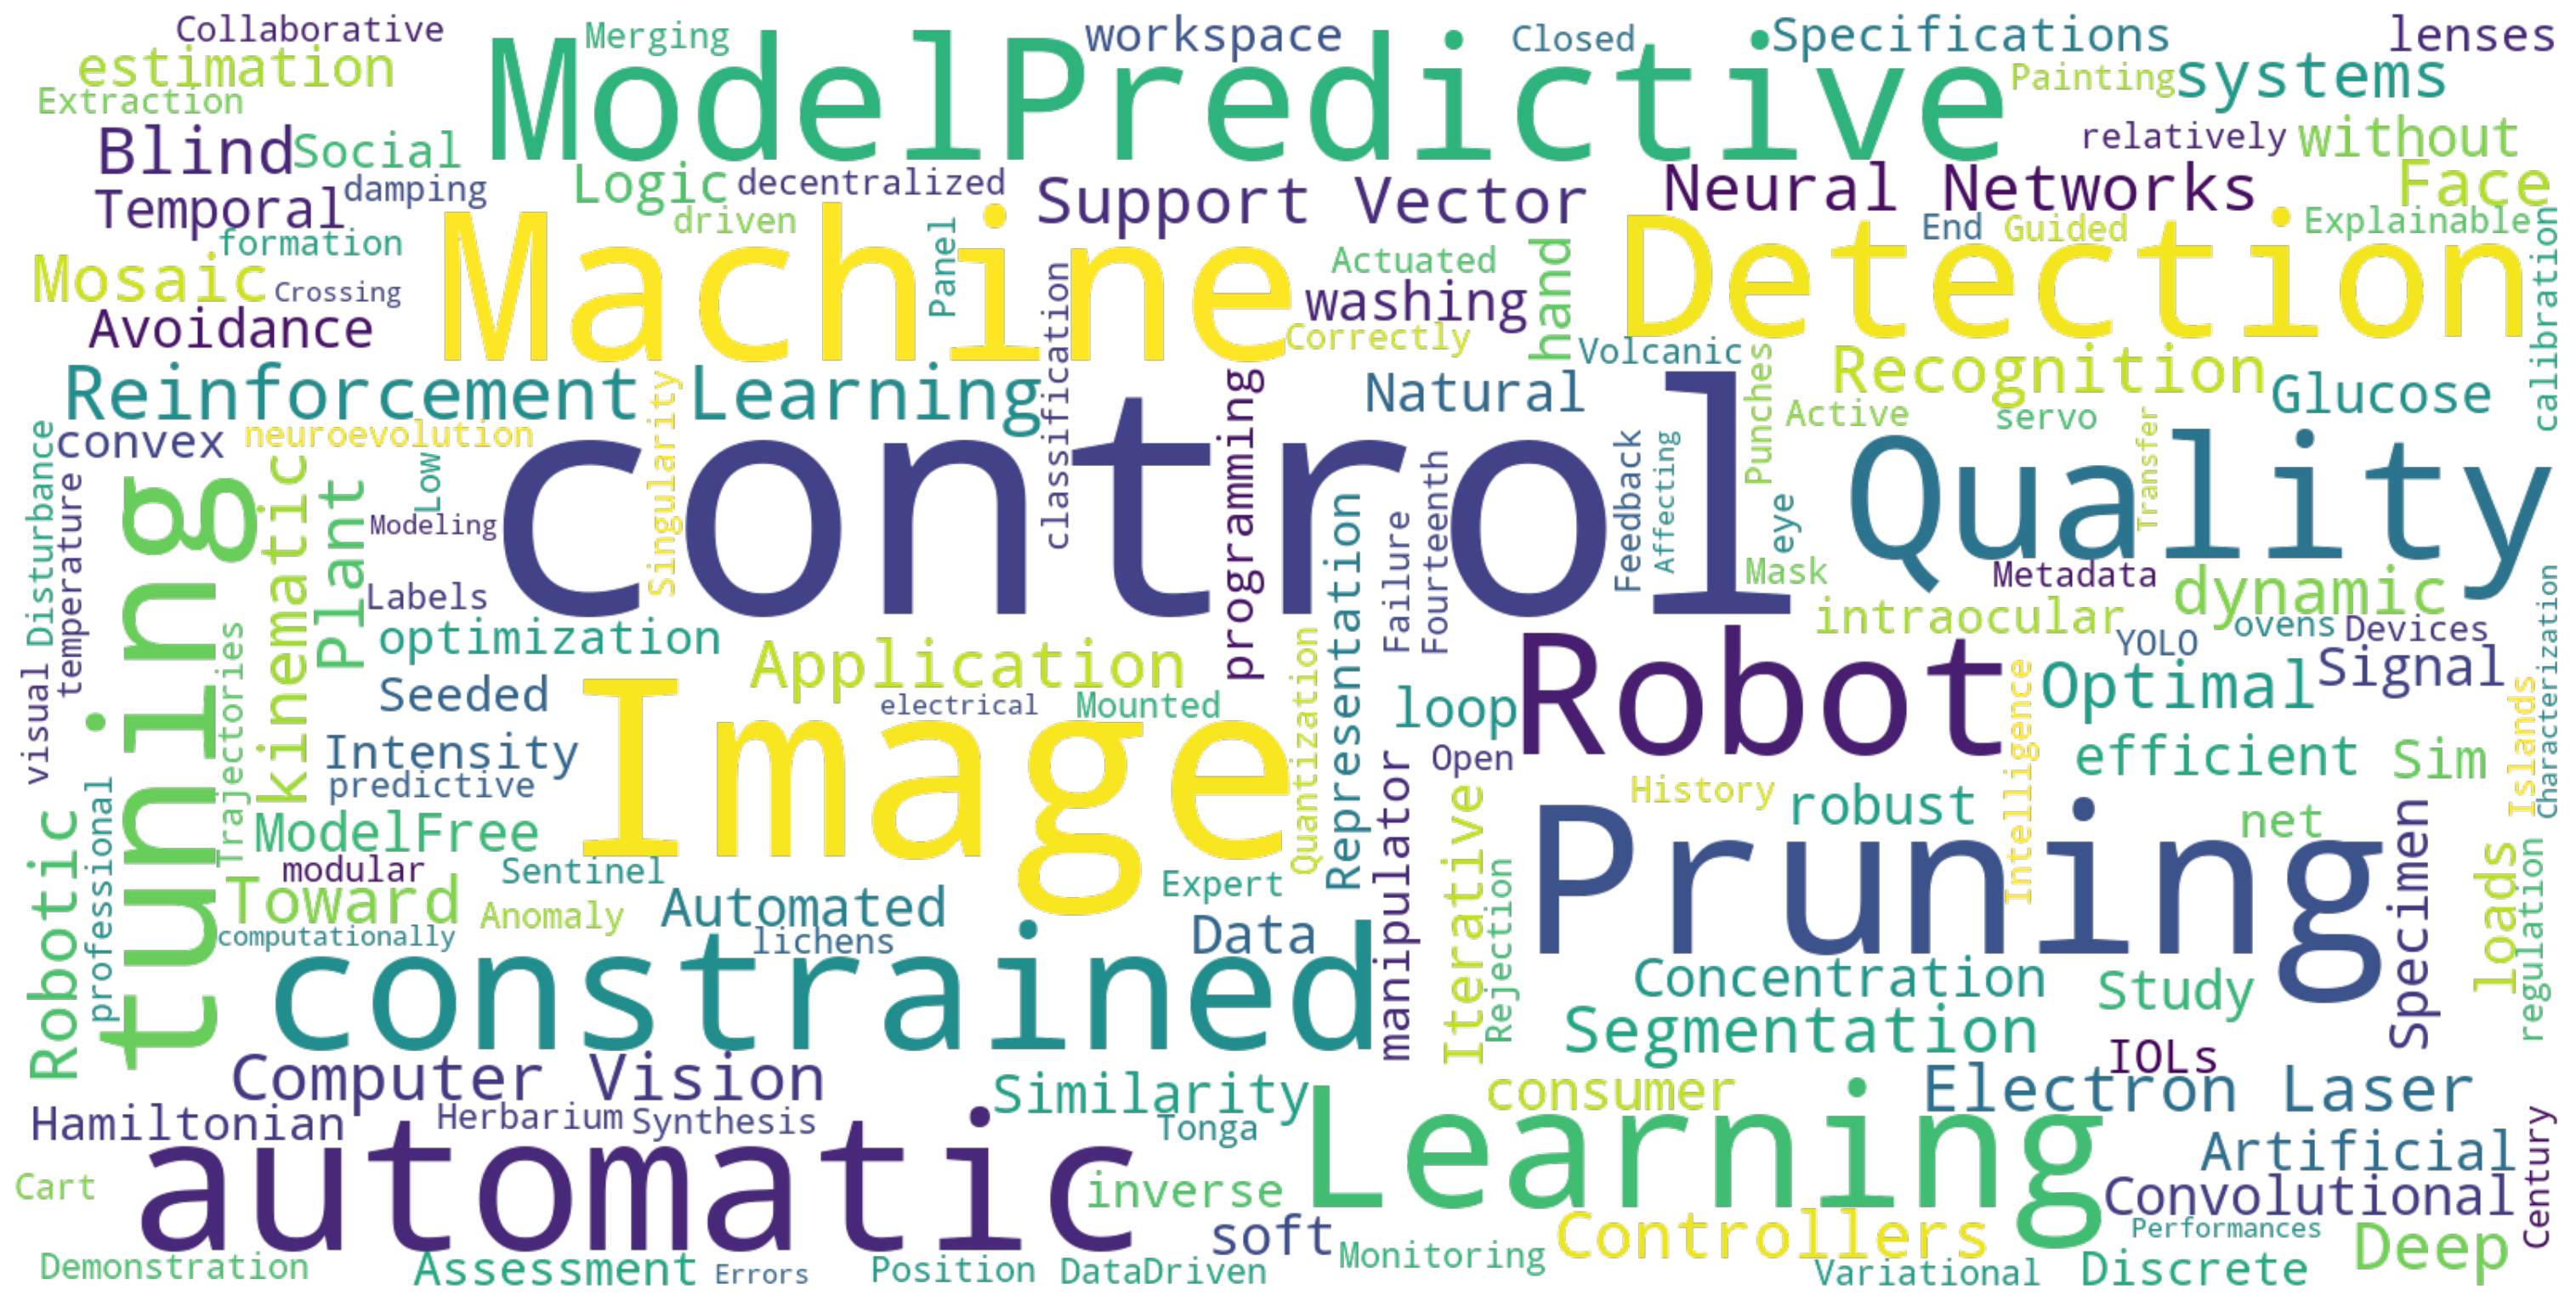
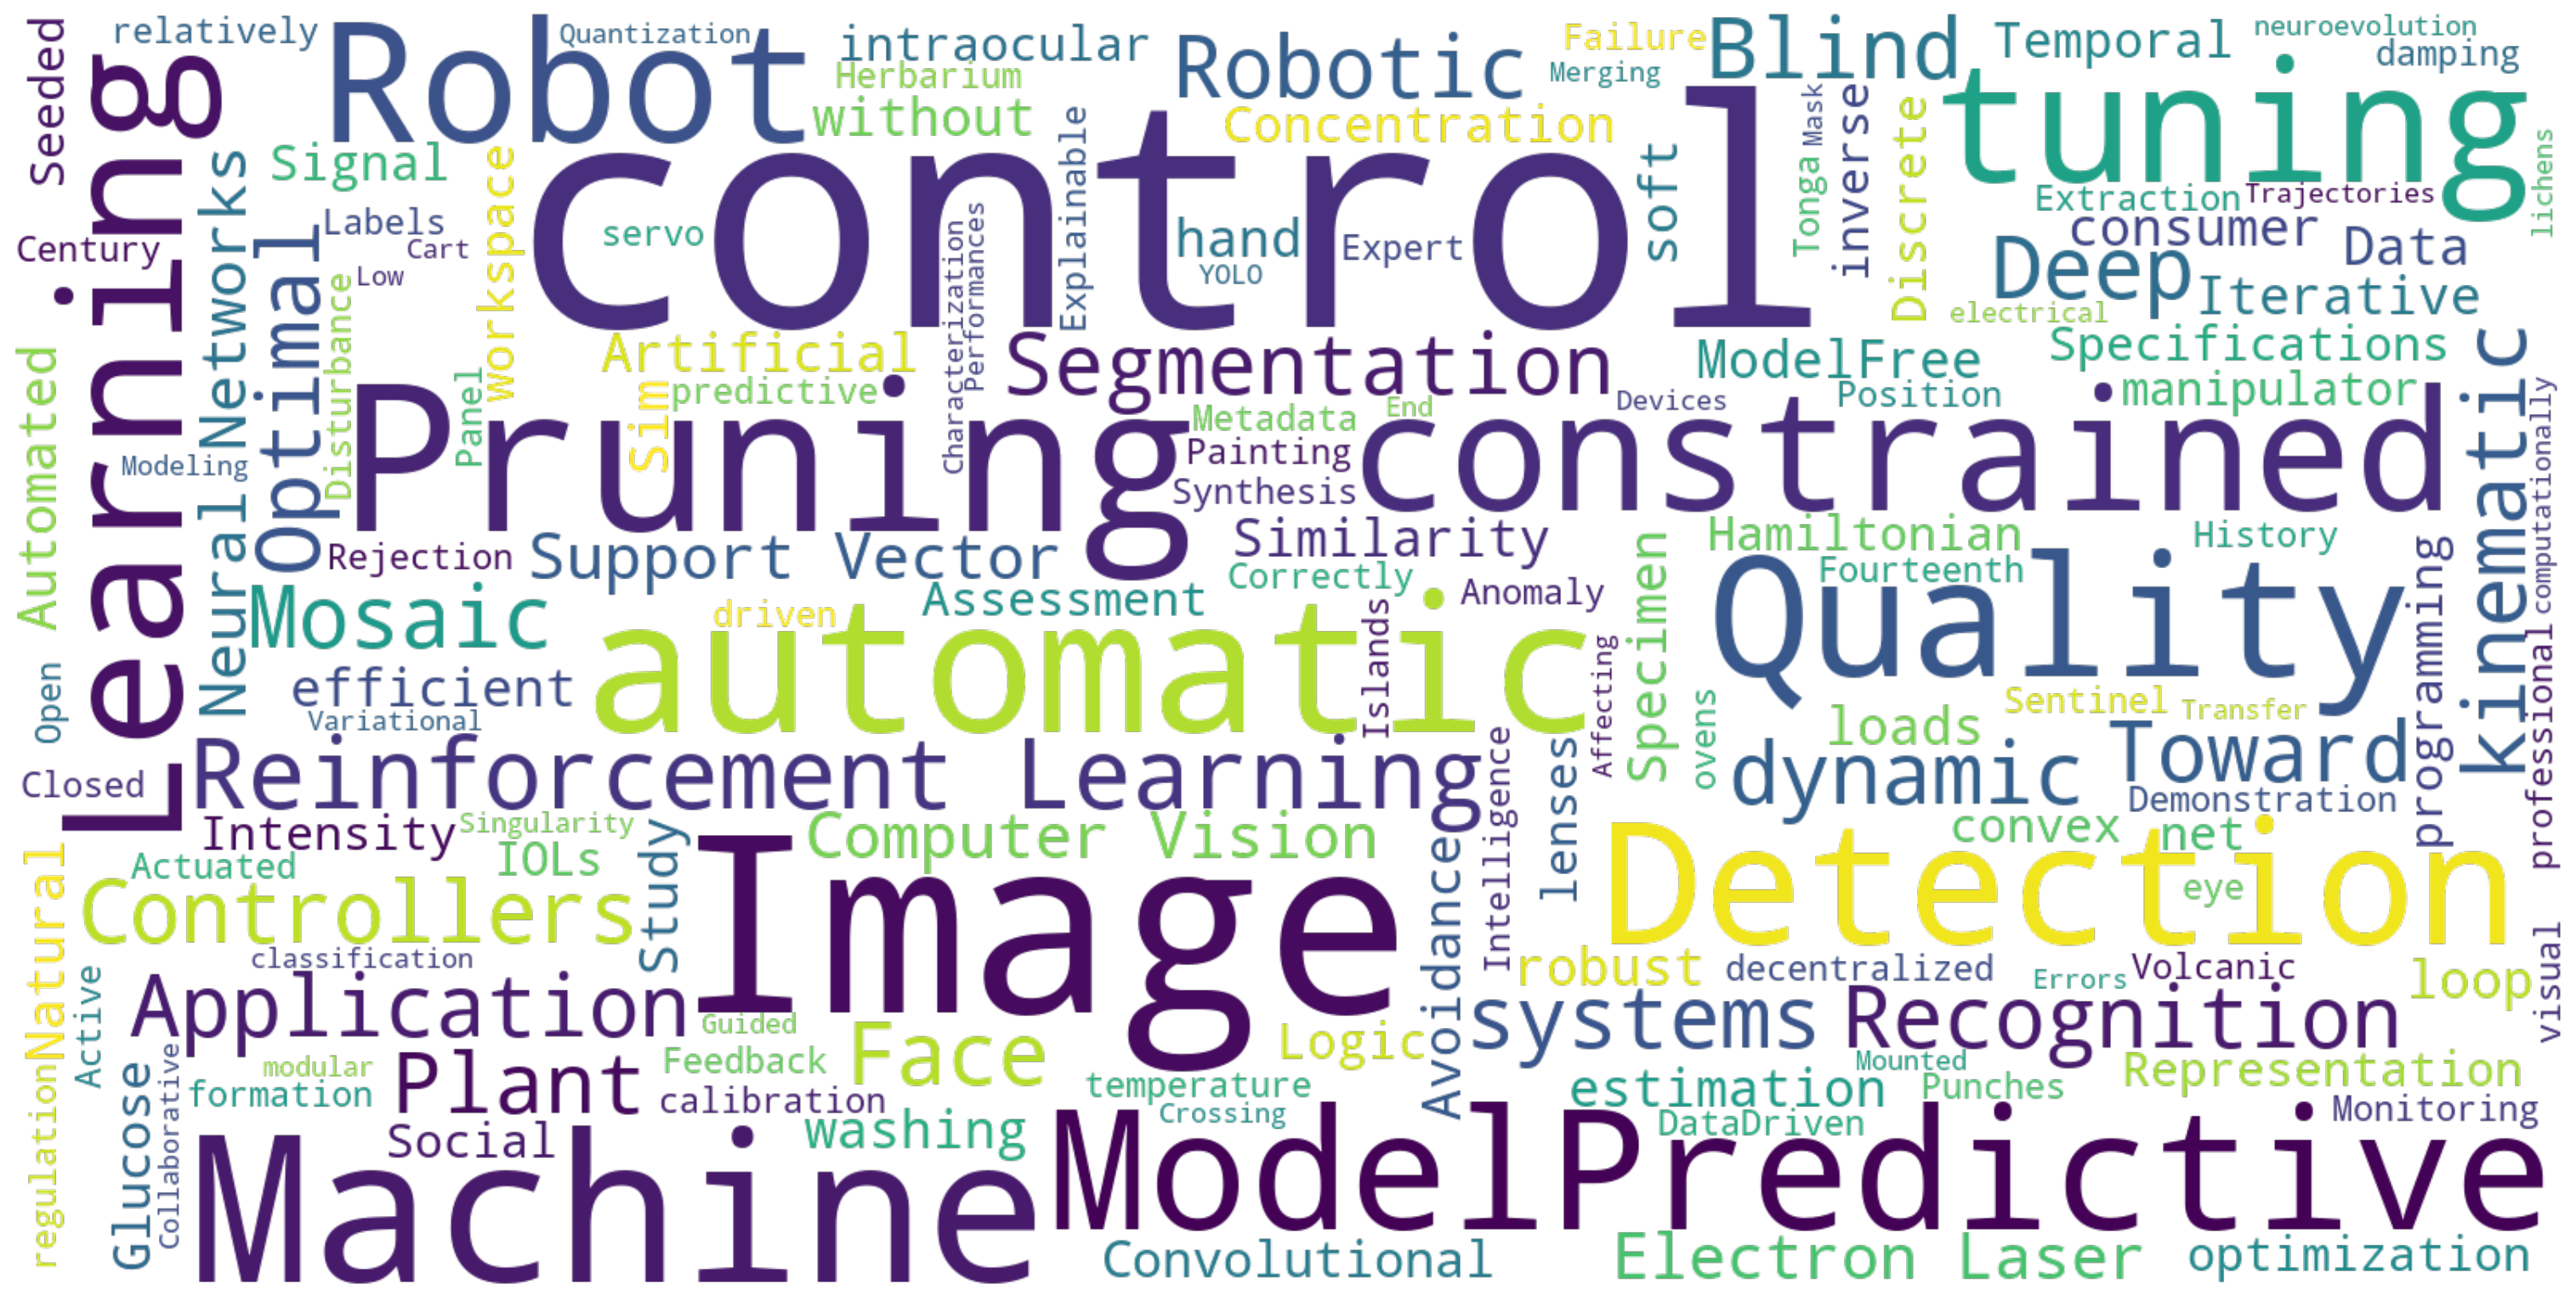
modified:   _pages/about.md 	new file:   _pages/research.md 	new file:   assets/img/wordcloud_1.png 	new file:   assets/img/wordcloud_2.png 	new file:   assets/img/wordcloud_3.png 	modified:   python/wordcloud_from2013_titlesOnly.png 	modified:   python/wordcloud_from2013_withAbstracts.png

diff --git a/_pages/research.md b/_pages/research.md
@@ -1,0 +1,20 @@
+---
+layout: page
+title: research
+permalink: /research/
+description: research interests and activities
+nav: true
+nav_order: 2
+---
+
+I work across **Control Theory**, **Machine Learning**, **Robotics**, and **Machine Vision**,
+with a focus on intelligent, autonomous systems where these disciplines naturally converge.
+I am particularly drawn to the challenge of making systems operate with limited or no model
+knowledge — from model-free and data-driven control, to learning-based approaches for perception
+and decision-making. On the robotics side, I work on kinematics, visual servoing, and safe robot
+operation in industrial environments.
+
+**My current focus is on advanced, intelligent manufacturing and contributing to human-centred,
+safe, and sustainable production systems, in line with the vision of Industry 5.0.**
+
+![Research word cloud](/assets/img/wordcloud_3.png){: width="100%"}

diff --git a/_pages/about.md b/_pages/about.md
@@ -23,6 +23,18 @@ social: true  # includes social icons at the bottom of the page
 ---
 I am Associate Professor of Automatica at the [Department of Engineering and Architecture (DIA)](https://dia.units.it/), [University of Trieste](https://www.units.it/), Italy, and co-founder of [Glance Vision Technologies](https://www.gvt.it/).
 
+**My current focus is on advanced, intelligent manufacturing and contributing to human-centred,
+safe, and sustainable production systems, in line with the vision of Industry 5.0.**
+For more details on my research, see the [research](/research/) page.
+
+At the university I teach [Control Theory](https://moodle2.units.it/course/search.php?search=322MI) and [Computer Vision and Pattern Recognition](https://moodle2.units.it/course/search.php?search=554sm). If you're a company or organisation interested in collaborating, or simply curious about what we do, feel free to get in touch — I'm always open to a conversation.
+
+Beyond academia, I'm a proud member of postpunk/psych/dub/wave band [Sanlorenzo](https://open.spotify.com/intl-it/artist/1aq5hx9lKx7DKYdq3nw40p?si=nsPMYONcTq2QCmyoeQGrig).
+You can find our latest [videoclip](https://youtu.be/8xaqFChd9oU?si=XrdwEquUDxRlHrAQ) and [another recent one](https://www.youtube.com/watch?v=tMLRuRsU_yw) online, along with a recorded [live performance](https://www.youtube.com/watch?v=kG4BYQNUjUE&t=1s).
+On the funk side, I recently joined the horn section of the fabulous [GangBand](https://www.gangband.it) as tenor saxophonist.
+
+<!--
+
 My research spans **Control Theory**, **Machine Learning**, **Robotics**, and **Machine Vision**,
 with a focus on intelligent, autonomous systems where these disciplines naturally converge.
 I am particularly drawn to the challenge of making systems operate with limited or no model
@@ -32,13 +44,8 @@ operation in industrial environments. **My current focus is on advanced, intelli
 and contributing to human-centred, safe, and sustainable production systems, in line with the
 vision of Industry 5.0.**
 
-At the university I teach [Control Theory](https://moodle2.units.it/course/search.php?search=322MI) and [Computer Vision and Pattern Recognition](https://moodle2.units.it/course/search.php?search=554sm). If you're a company or organisation interested in collaborating, or simply curious about what we do, feel free to get in touch — I'm always open to a conversation.
 
-Beyond academia, I'm a proud member of postpunk/psych/dub/wave band [Sanlorenzo](https://open.spotify.com/intl-it/artist/1aq5hx9lKx7DKYdq3nw40p?si=nsPMYONcTq2QCmyoeQGrig).
-You can find our latest [videoclip](https://youtu.be/8xaqFChd9oU?si=XrdwEquUDxRlHrAQ) and [another recent one](https://www.youtube.com/watch?v=tMLRuRsU_yw) online, along with a recorded [live performance](https://www.youtube.com/watch?v=kG4BYQNUjUE&t=1s).
-On the funk side, I recently joined the horn section of the fabulous [GangBand](https://www.gangband.it) as tenor saxophonist.
 
-<!--
 I am Associate Professor of Automatica at the [Department of Engineering and Architecture (DIA)](https://dia.units.it/), [University of Trieste](https://www.units.it/), Italy.
  
 I teach [Control Theory](https://moodle2.units.it/course/search.php?search=322MI) and [Computer Vision and Pattern Recognition](https://moodle2.units.it/course/search.php?search=554sm).